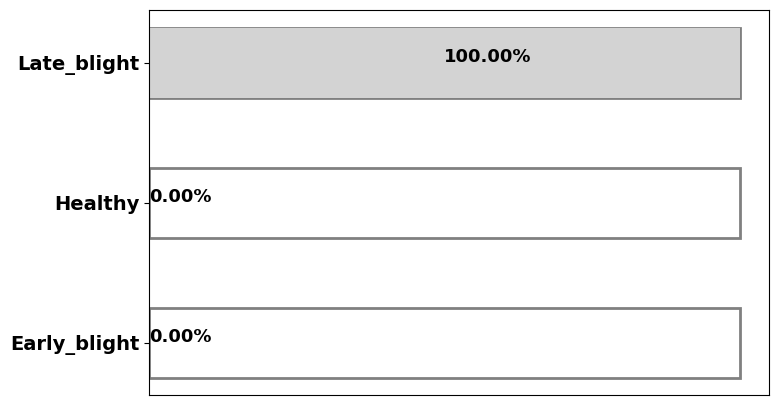
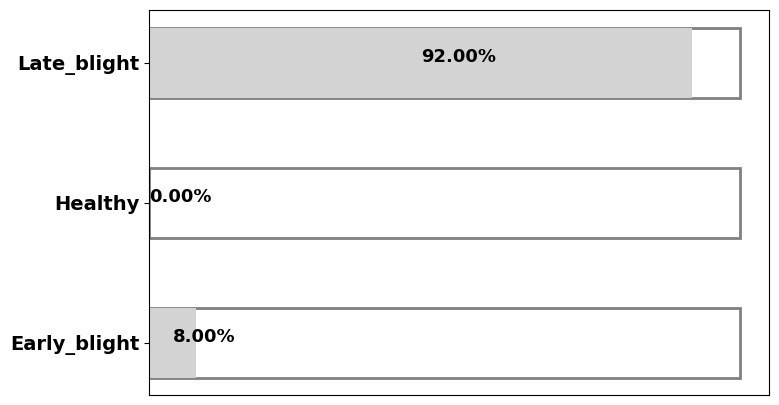
documented the project in readme file

Changed region(s): [[0.1849, 0.7407, 0.3081, 0.9481], [0.8626, 0.0593, 0.9551, 0.2667], [0.5237, 0.1185, 0.6778, 0.1778]]

diff --git a/README.md b/README.md
@@ -1,6 +1,6 @@
 # Potato Disease Classification using CNN
 
-A brief description of what this project does and who it's for
+This repository contains the code for a Potato Disease Classification API built using TensorFlow and FastAPI. The API is designed to classify potato leaf images into three categories: Early Blight, Late Blight, and Healthy. The model is deployed using FastAPI and can be accessed via a simple RESTful interface.
 
 ## Table of Contents
 
@@ -20,6 +20,12 @@ A brief description of what this project does and who it's for
 ## Overview
 
 This project involves the development of a convolutional neural network (CNN) to classify potato plant diseases into three categories: Early Blight, Late Blight, and Healthy. The model aims to assist farmers and agronomists in early detection of these diseases through image classification, potentially improving crop management and yield.
+
+## User Interface
+
+The user interface (UI) of this potato disease classification project is designed to be intuitive and user-friendly, allowing users to easily upload images and receive predictions.
+
+- **User Interface**: <img src="images-md\early.png" alt="User Interface" width="500" />
 
 ## Problem Statement
 
@@ -123,18 +129,18 @@ The model was tested on a separate dataset to evaluate its performance in classi
 
 1. **Prediction**: Early Blight
 
-- **Confidence**: 95.4%
-- **Image**:
+- **Confidence**: 99%
+- **Image**: <img src="images-md\early.png" alt="Image" width="500" />
 
 2. **Prediction**: Late Blight
 
-- **Confidence**: 95.4%
-- **Image**:
+- **Confidence**: 92%
+- **Image**: <img src="images-md\late.png" alt="Image" width="500" />
 
 3. **Prediction**: Healthy
 
-- **Confidence**: 95.4%
-- **Image**:
+- **Confidence**: 100%
+- **Image**: <img src="images-md\healthy.png" alt="Image" width="500" />
 
 ### Model Performance Metrics
 
